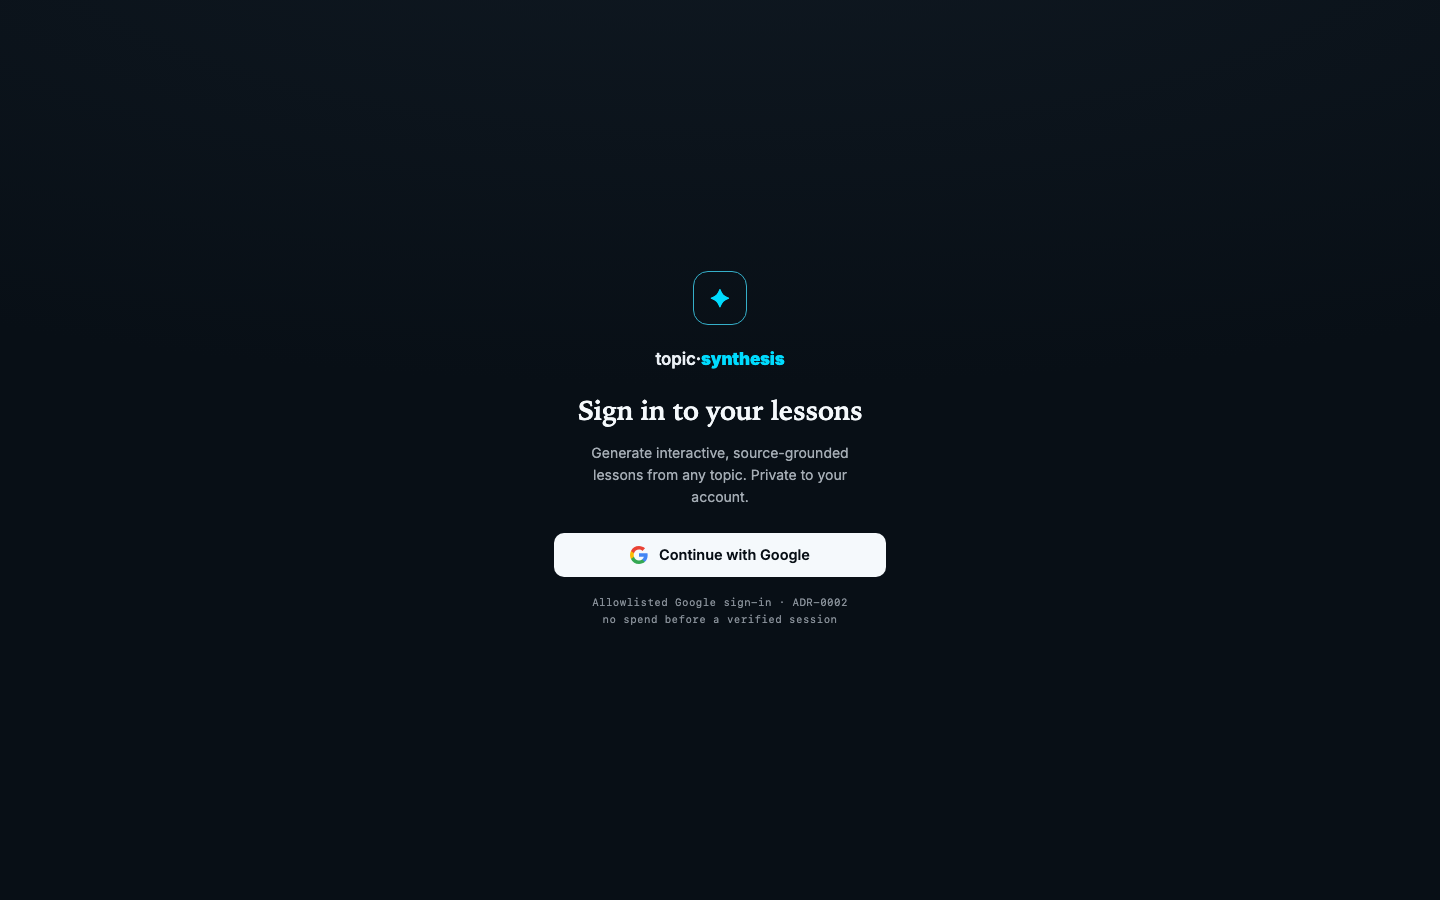
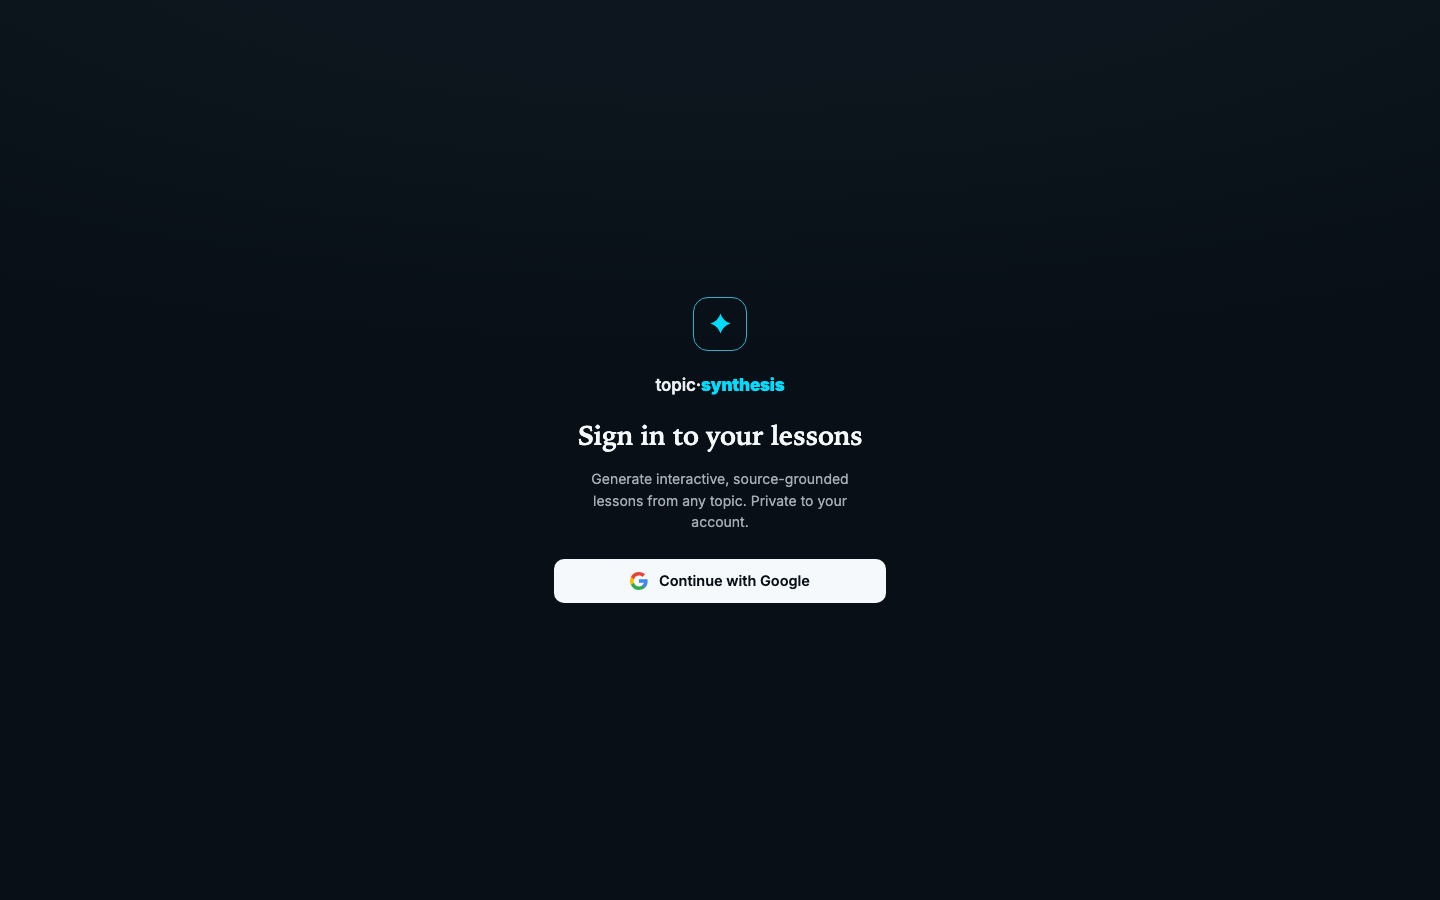
fix(auth): drop developer-facing footer from sign-in; gate user copy in design-reviewer
The sign-in card carried a developer-facing footer ("Allowlisted Google
sign-in · ADR-0002" / "no spend before a verified session") — an ADR
reference and an internal-behavior note that must never appear in user
UI. Remove the <p.signin__foot> block and its now-unused CSS rule; the
card ends after the Google button (the error <p> stays). Reconcile
DESIGN.md §Sign-in to describe the footerless card.

To stop this class of error recurring, harden the design-reviewer agent
with an explicit COPY-APPROPRIATENESS check: user-facing copy must never
contain ADR/issue/PR numbers, code identifiers, file paths, env/flag
names, or internal-behavior descriptions; the Figma's TEXT is a draft
(it may carry dev placeholder copy), so "match the Figma" governs
layout/visual only while user copy is curated for users; any dev-speak
in user copy is a CRITICAL finding. Stated in the agent body because
worktree-isolated agents don't load AGENTS.md.

Update the darwin sign-in visual baselines (footer gone).

Claude-Session: https://claude.ai/code/session_01LpCadPSUTfxva2QxCk857y

Changed region(s): [[0.375, 0.3111, 0.625, 0.7156]]

diff --git a/src/app/globals.css b/src/app/globals.css
@@ -877,17 +877,6 @@ h1 {
   font-size: var(--fs-small);
 }
 
-/* SF-Mono footer (Figma 5:27): the --mono stack, 10.5px, tracking 0.42px ≈ 0.04em, line-height 16.8px,
-   in --text-faint (= --fog-550, equal to the Figma #889099). Two lines via an inline <br>. */
-.signin__foot {
-  margin-top: 18px;
-  font-family: var(--mono);
-  font-size: 10.5px;
-  line-height: 16.8px;
-  letter-spacing: 0.04em;
-  color: var(--text-faint);
-}
-
 .signin__google:focus-visible {
   outline: 2px solid var(--interactive);
   outline-offset: 2px;

diff --git a/src/app/(auth)/sign-in/page.tsx b/src/app/(auth)/sign-in/page.tsx
@@ -64,11 +64,6 @@ export default function SignIn() {
             {error}
           </p>
         ) : null}
-        <p className="signin__foot">
-          Allowlisted Google sign-in · ADR-0002
-          <br />
-          no spend before a verified session
-        </p>
       </div>
     </main>
   );

diff --git a/.claude/agents/design-reviewer.md b/.claude/agents/design-reviewer.md
@@ -165,6 +165,27 @@ the hard constraints you need are restated here. The binding ones:
 - Reduced motion honored ("## Motion"). The chrome never depends on an opaque-origin iframe's
   internals for its own a11y.
 
+### Copy appropriateness — user-facing text is for users, never for developers
+- **User-facing copy must NEVER contain project-internal or developer-facing information.** No
+  ADR numbers (`ADR-0002`), no issue/PR numbers (`#150`, `TS-24`), no code identifiers
+  (function/component/token names, class names like `.signin__foot`), no file paths, no
+  env-var or feature-flag names (`AUTH_ALLOWLIST`, `LIVE_ARM`, `CHEAP`), and no descriptions of
+  internal system behavior (e.g. "no spend before a verified session", "allowlisted Google
+  sign-in") in any text a real user reads — headings, leads, button labels, error messages,
+  footers, captions, tooltips, empty-states, badges. This is decided by the *meaning* of the
+  words, not by which DESIGN.md token styles them; it applies even when the layout is correct.
+- **The Figma's TEXT is a DRAFT, never gospel.** The authority chain (shipped build > DESIGN.md
+  > Figma) governs **layout/visual fidelity only** — geometry, spacing, type, color. The mockup
+  itself may carry dev placeholder copy (an `ADR-…` line, lorem, an internal note); "match the
+  Figma" means match its LAYOUT, not transcribe its strings. User-facing copy must be curated
+  *for users* — judge the words on whether a person signing in would understand and benefit from
+  them, not on whether they match the frame. A diff that ships the Figma's dev-speak verbatim
+  into user UI is a finding, not fidelity.
+- **Any internal-ref or dev-speak in user copy is a CRITICAL finding.** Flag the exact string,
+  name what makes it developer-facing, and propose user-appropriate copy (or removal). Treat this
+  with the same severity as a P0 invariant — leaking an ADR number or an internal behavior note to
+  a real user is a release-blocking defect, never a NIT.
+
 ### Scope boundary
 - The generation pipeline is OUT of scope (it was reverted to blob-binary; `src/pipeline/*`
   content logic is not a design surface). Generated artifacts carry their OWN a11y contract —
@@ -177,7 +198,10 @@ the hard constraints you need are restated here. The binding ones:
 - **CRITICAL** — breaks a P0 invariant or a stated correctness rule: a contrast pair below
   the AA floor on operable text, a status conveyed by color alone, the lesson-workspace
   Stable-spine HARD rule violated, legibility gated on motion, `outline:none` with no
-  replacement, a light/parchment inversion of the dark palette. Must be fixed before merge.
+  replacement, a light/parchment inversion of the dark palette, **project-internal or
+  developer-facing text in user-facing copy** (an ADR/issue/PR number, code identifier, file
+  path, env/flag name, or internal-behavior note — §Copy appropriateness). Must be fixed before
+  merge.
 - **MAJOR** — a clear, visible departure from the system: wrong type family for a role
   (serif on chrome / sans on a lesson heading), off-scale spacing/radius, a raw OKLCH/ms/easing
   literal outside §0, a hand-rolled tween instead of the transitions-dev catalog, a reduced-

diff --git a/DESIGN.md b/DESIGN.md
@@ -65,7 +65,7 @@ Transitions use the **`transitions-dev`** snippet catalog (copy-paste CSS, no ru
 - **Curriculum hub** (tiered SITEMAP — DORMANT) — tier → category → page tiles; built tiles link to the page, `soon`/`text` tiles are muted with a status badge. Built by `tileView` + the tiered CSS (`.hub`/`.tier`/`.tiles`/`.tile*`/`.category*`); retained for the future curriculum-wrapper milestone (decompose → N lessons) but **not** rendered by `/curriculum/<id>` today, which renders the single lesson directly.
 - **Page tile** (DORMANT — part of the tiered hub above) — title + status badge (`--status-built` / `--status-soon` / text).
 - **Artifact frame** — sandboxed cross-origin iframe; the chrome supplies only the frame (a "report a problem" affordance is deferred).
-- **Sign in** (`(auth)/sign-in`) — rebuilt to the Figma frame `5:2` (card `5:5`): a viewport-centered ~380px `.signin__card` on the §0 radial-glow `--app-bg`, scoped under `.signin*` so its look does NOT leak to the library / curriculum routes (which keep the shared `.wrap`/`h1`/`.lead`/`.btn`). Top to bottom: the `.signin__badge` (54×54, 0.8px `--accent-dim` outline) holding the ✦ sparkle mark inlined as the `<SparkleMark/>` SVG (`fill="currentColor"` ← the badge's `color: var(--accent)`, so the cyan stays a §0 token — never a remote asset, and never the literal "✦" character, which isn't in Inter and fell back to a per-platform system glyph that mis-sized vs. Figma and drifted dev↔Cloud Run) → the two-tone `.signin__wordmark` ("topic·" Inter SemiBold in `--text` + "synthesis" Inter Black in `--accent`) → the serif `h1.signin__title` ("Sign in to your lessons", the `--serif` stack in `--fog-50`) → the `.signin__lead` copy ("Generate interactive, source-grounded lessons from any topic. Private to your account." in `--text-muted`) → a near-white `.signin__google` pill (`--fog-50` bg, `--ink-950` label, the official 4-color Google G inlined as the `<GoogleG/>` SVG — never a remote asset) → the SF-Mono `.signin__foot` lines (`--mono` in `--text-faint`). A rejected / non-allowlisted account surfaces a branded `.signin__error` (`--status-error`). The Google consent popup is the one external surface; every color resolves to a §0 token (the Figma hexes are OKLCH-verified equal — `#00dbfe`→`--accent`, `#35afc9`→`--accent-dim`, `#ebeff4`→`--text`, `#f5f9fc`→`--fog-50`, `#a4acb4`→`--text-muted`, `#889099`→`--text-faint`), with a few sign-in-specific size/tracking literals (e.g. the 27px serif title) the §0 scale doesn't define.
+- **Sign in** (`(auth)/sign-in`) — rebuilt to the Figma frame `5:2` (card `5:5`): a viewport-centered ~380px `.signin__card` on the §0 radial-glow `--app-bg`, scoped under `.signin*` so its look does NOT leak to the library / curriculum routes (which keep the shared `.wrap`/`h1`/`.lead`/`.btn`). Top to bottom: the `.signin__badge` (54×54, 0.8px `--accent-dim` outline) holding the ✦ sparkle mark inlined as the `<SparkleMark/>` SVG (`fill="currentColor"` ← the badge's `color: var(--accent)`, so the cyan stays a §0 token — never a remote asset, and never the literal "✦" character, which isn't in Inter and fell back to a per-platform system glyph that mis-sized vs. Figma and drifted dev↔Cloud Run) → the two-tone `.signin__wordmark` ("topic·" Inter SemiBold in `--text` + "synthesis" Inter Black in `--accent`) → the serif `h1.signin__title` ("Sign in to your lessons", the `--serif` stack in `--fog-50`) → the `.signin__lead` copy ("Generate interactive, source-grounded lessons from any topic. Private to your account." in `--text-muted`) → a near-white `.signin__google` pill (`--fog-50` bg, `--ink-950` label, the official 4-color Google G inlined as the `<GoogleG/>` SVG — never a remote asset). The card ends after the button — no footer copy (developer-facing meta like ADR/allowlist notes must never appear in user UI). A rejected / non-allowlisted account surfaces a branded `.signin__error` (`--status-error`). The Google consent popup is the one external surface; every color resolves to a §0 token (the Figma hexes are OKLCH-verified equal — `#00dbfe`→`--accent`, `#35afc9`→`--accent-dim`, `#ebeff4`→`--text`, `#f5f9fc`→`--fog-50`, `#a4acb4`→`--text-muted`), with a few sign-in-specific size/tracking literals (e.g. the 27px serif title) the §0 scale doesn't define.
 - **Session top bar** (`.topbar`) — right-aligned; the signed-in email in `--text-muted` + a `.topbar__signout` text button in `--interactive` (focus-visible ring, reduced-motion-safe). Shown only when signed in, so the sign-in page stays chromeless.
 
 ## Lesson layout (LOCKED — the design target / acceptance bar)